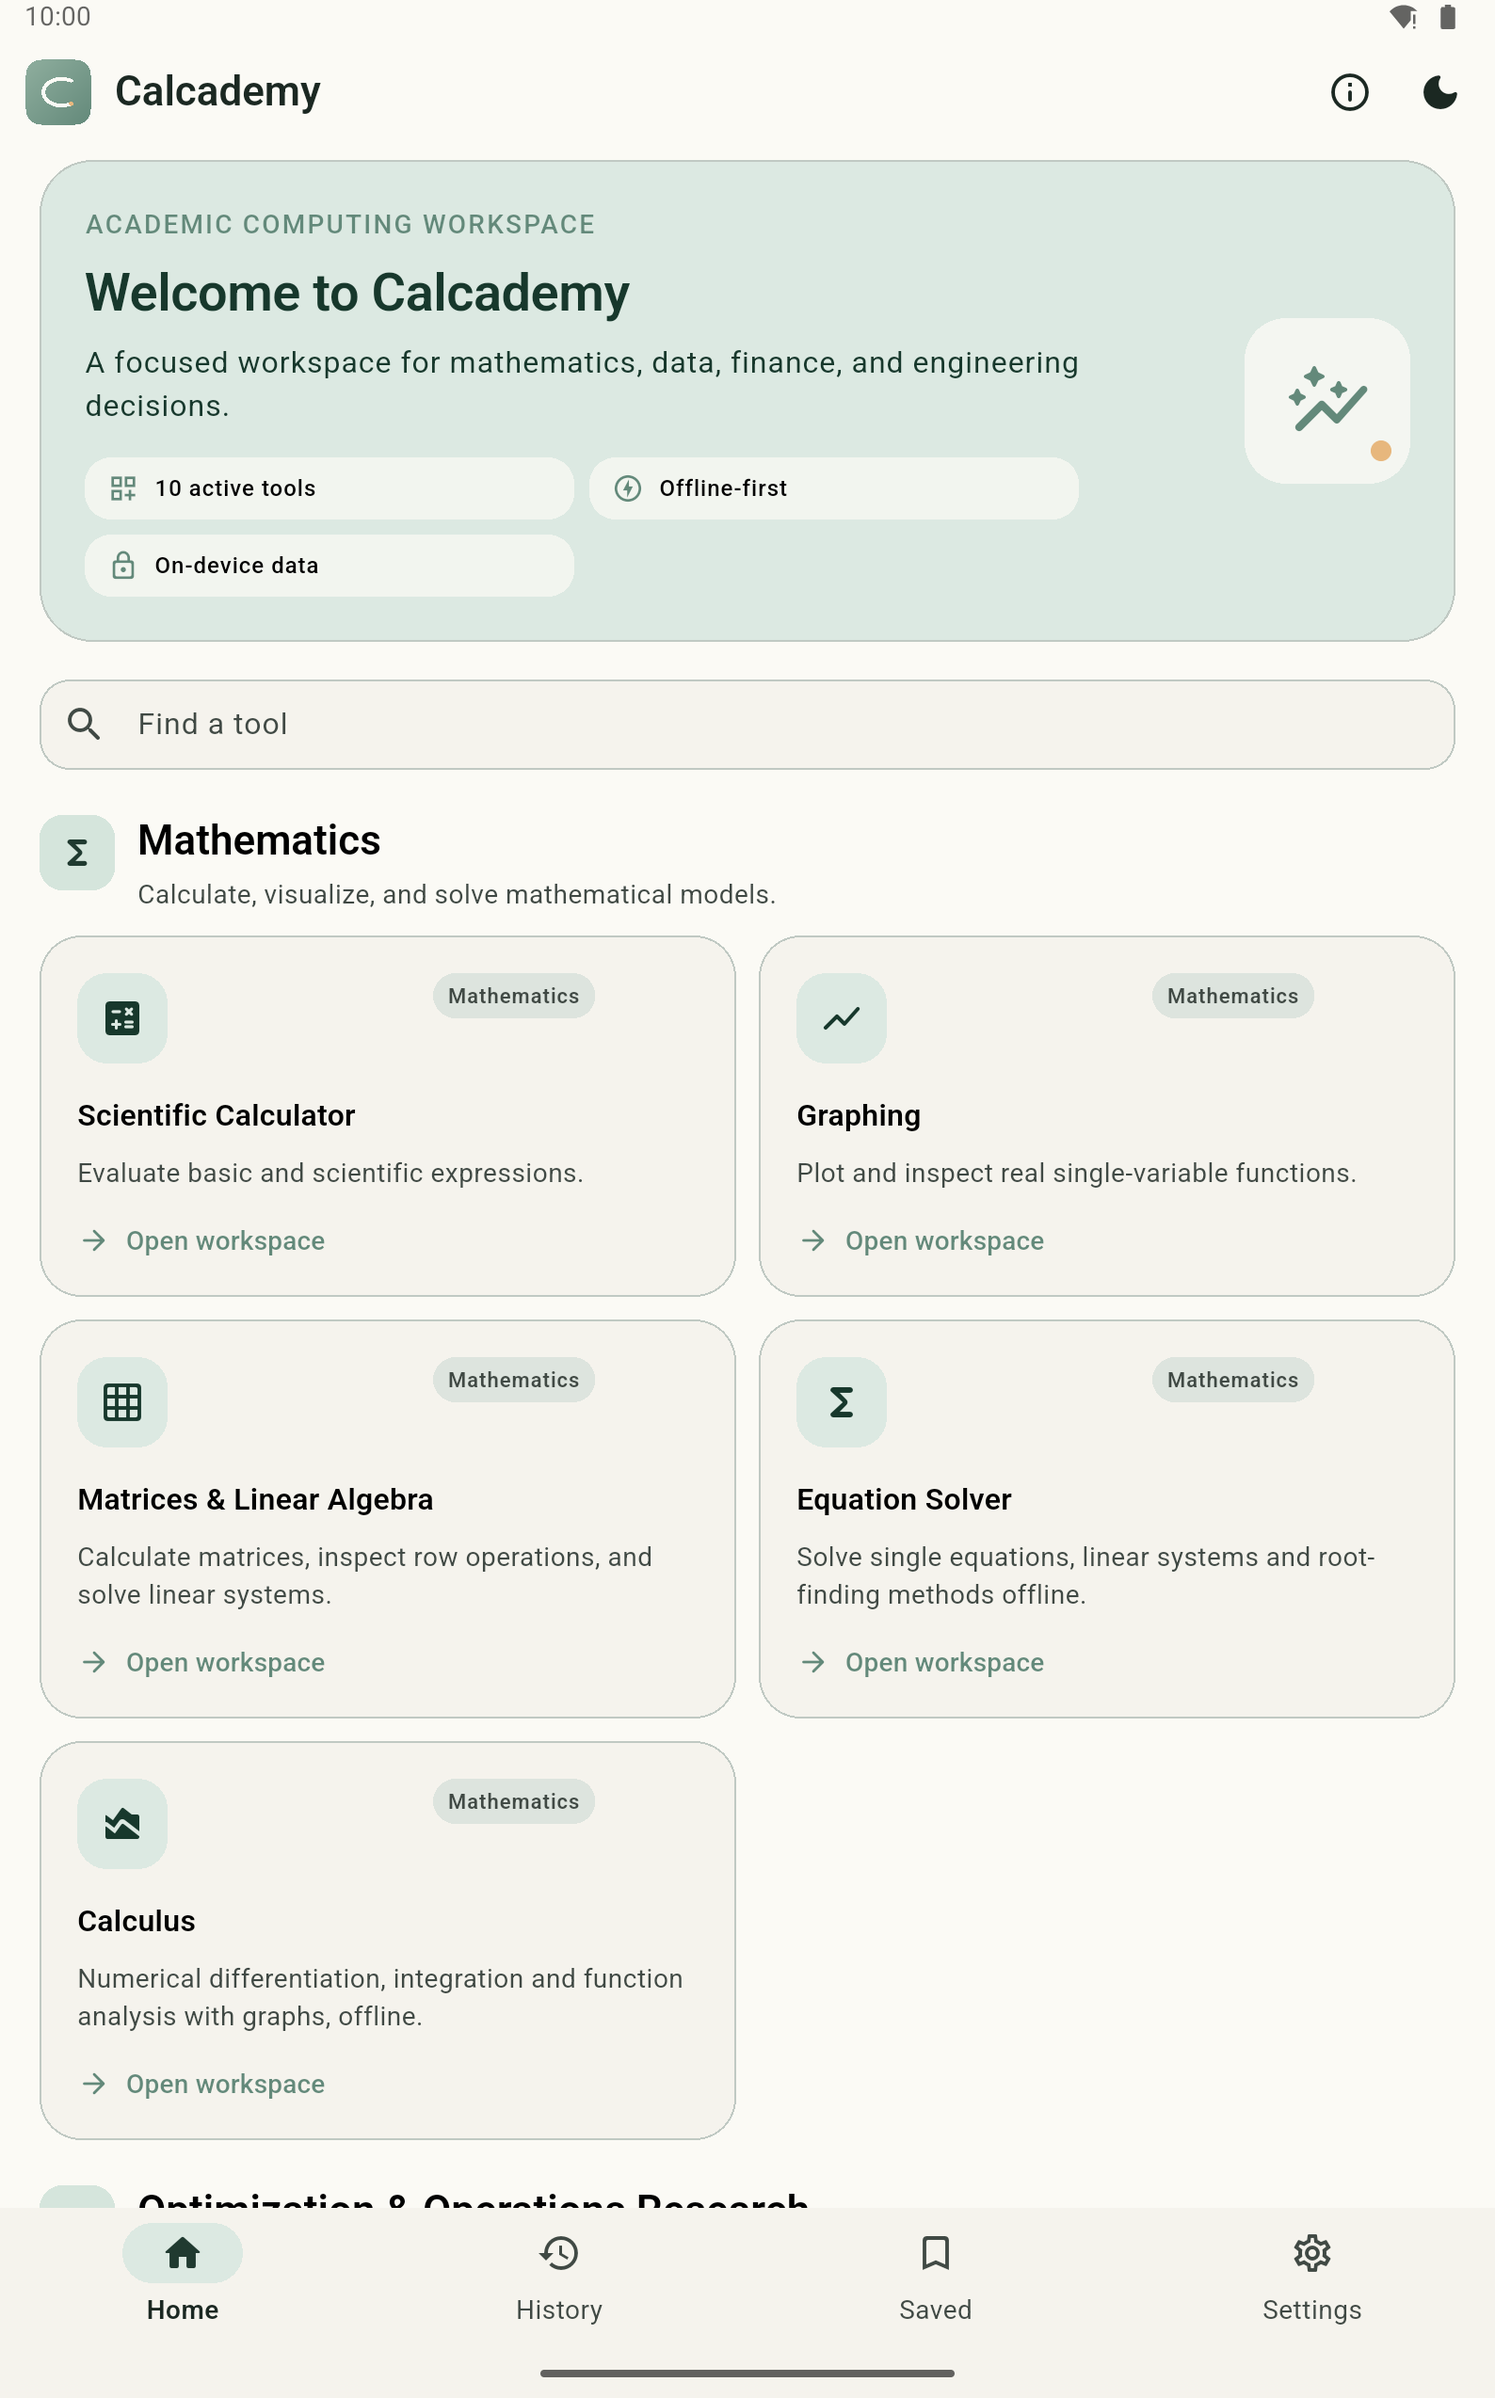
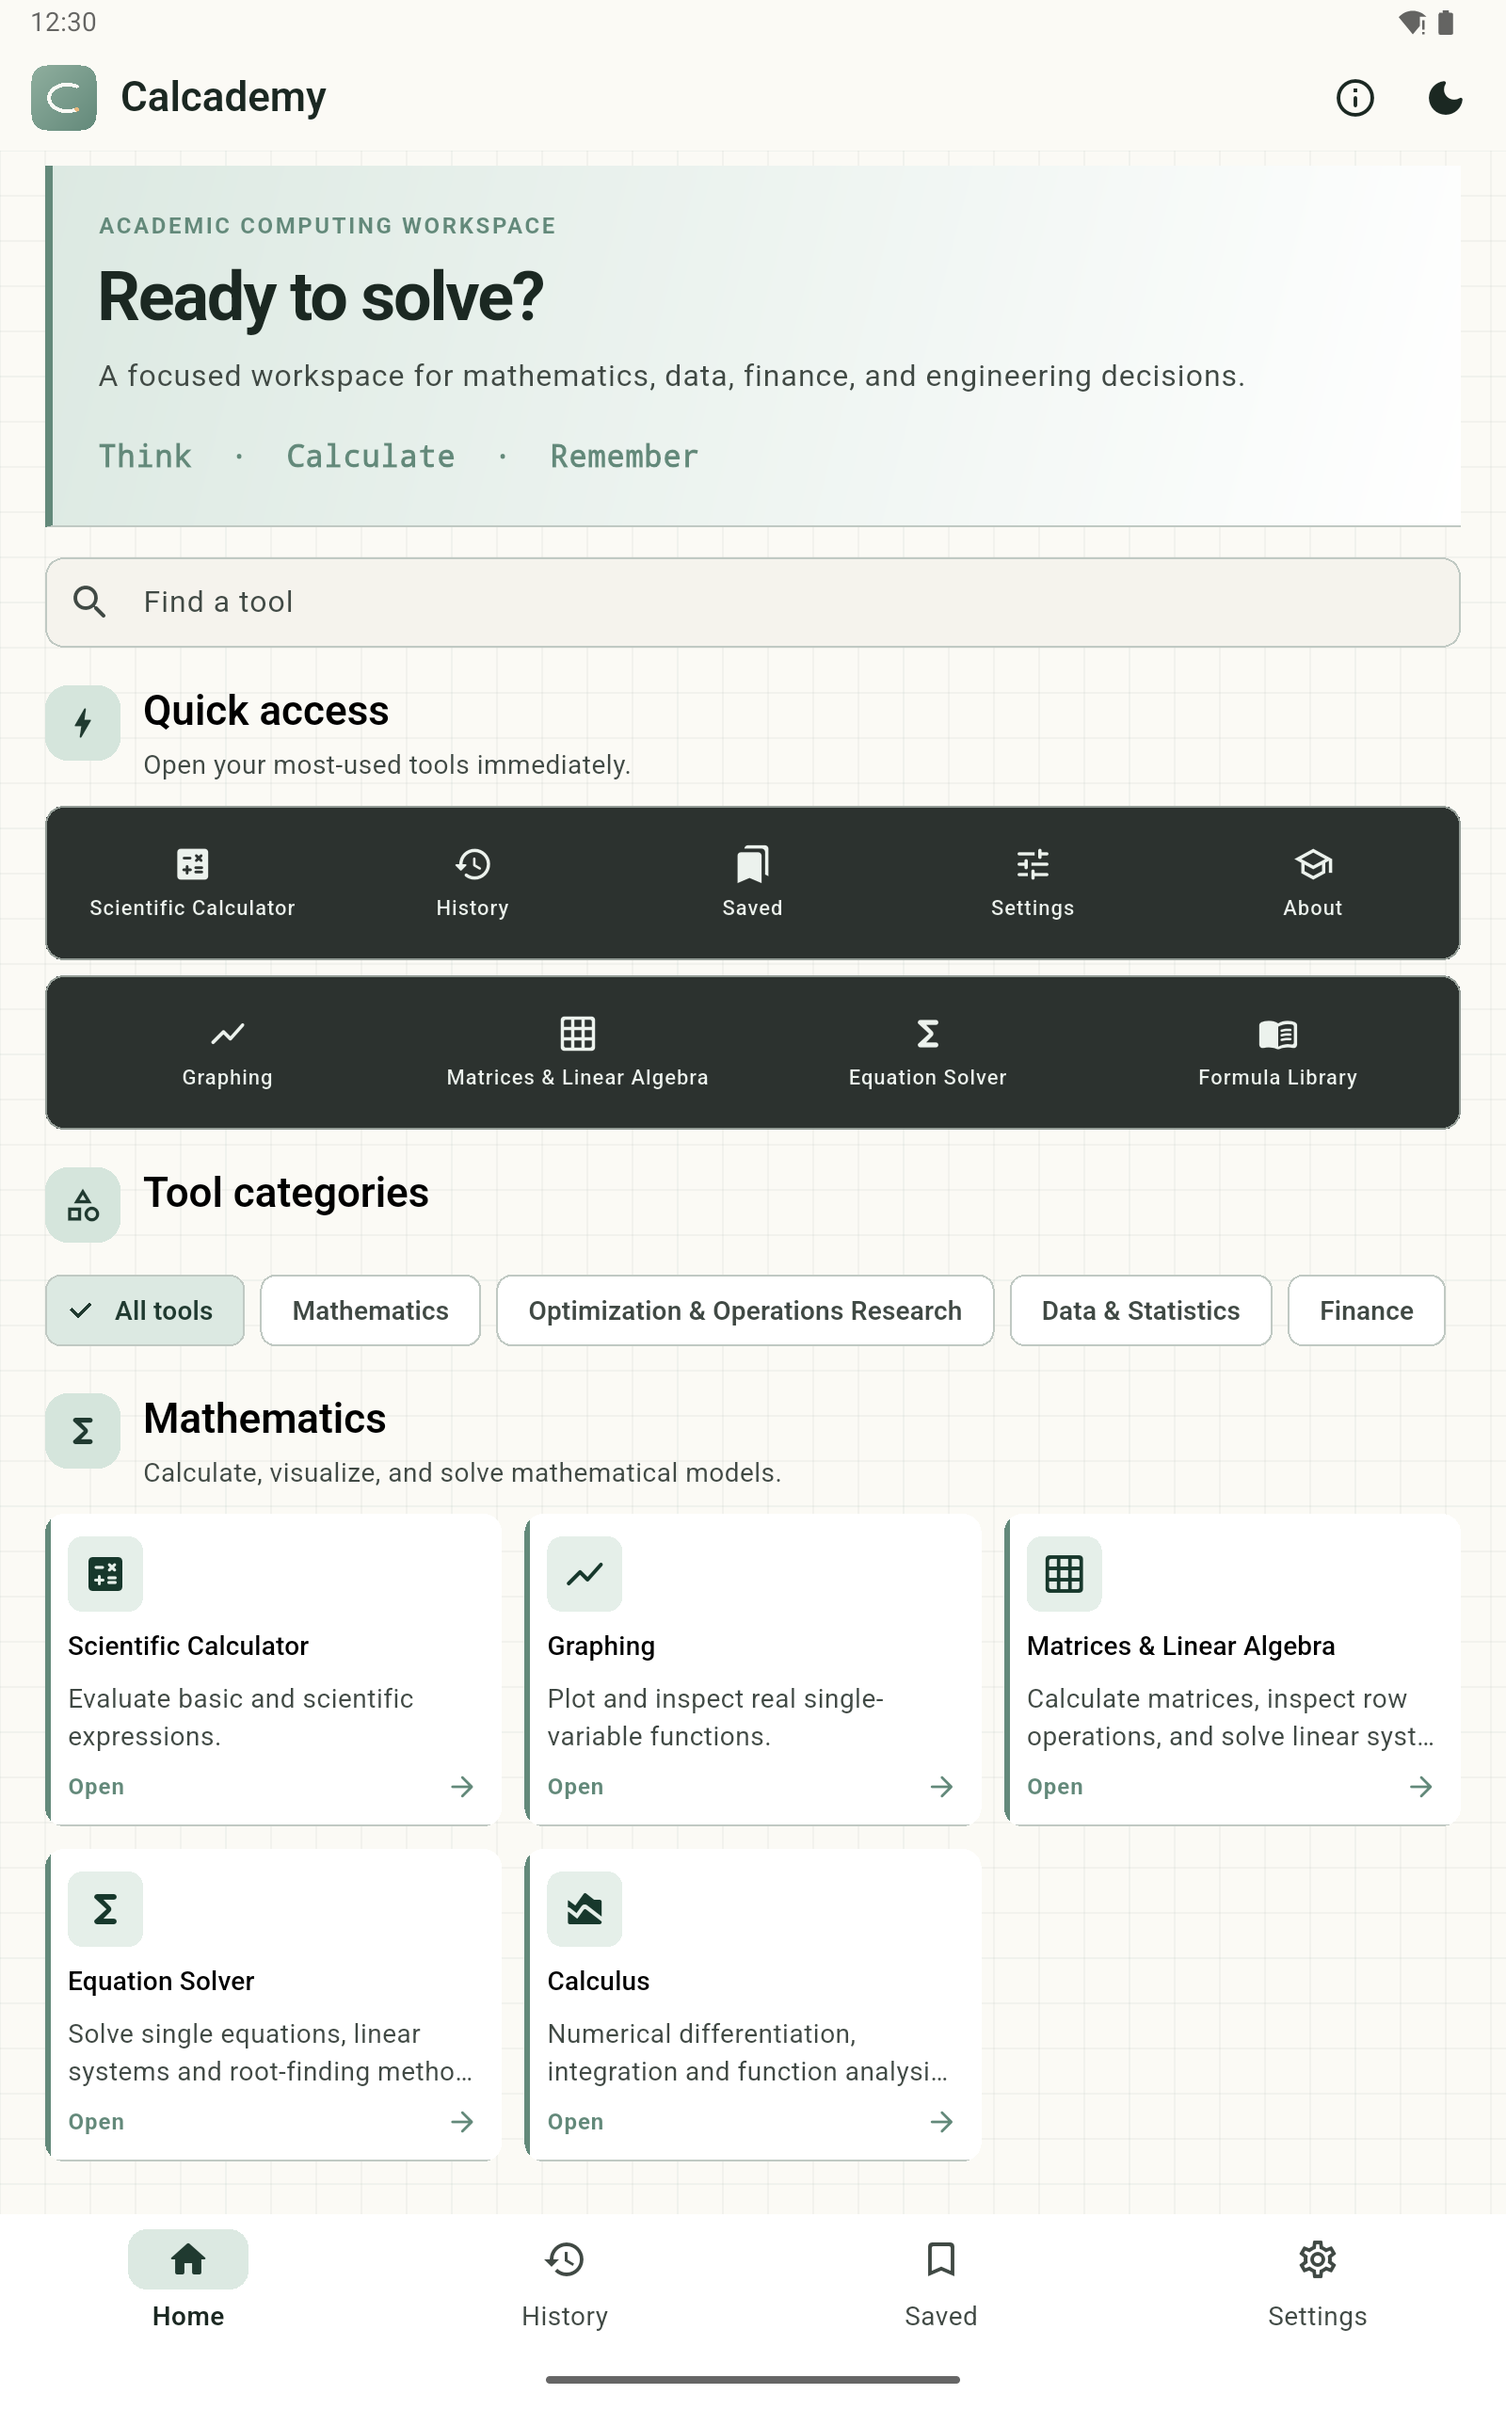
Recapture the Play listing screenshots and add framed listing designs
The committed store screenshots predated the current UI (new home hero, quick
access rows, module layouts), so the listing no longer matched the app.

Recapture the English sets from a signed 1.9.4+29 release APK on emulators:
8 phone shots (1080x2400), 4 on the 7-inch profile (1200x1920) and 4 on the
10-inch profile (1600x2560, rotated to portrait). Every displayed result is
re-verified against docs/screenshots_sample_data.md, and captures run with the
network disabled so the AdMob banner never loads and no impression is served
from an emulator.

Add store_assets/tools/build_listing_designs.ps1, which frames each screenshot
on a branded canvas (grid wash, module eyebrow, caption, self-drawn bezel) and
writes store_assets/play_listing/designs/. The screenshot is pasted at native
size, so the framed variant is pixel-identical to the raw capture inside the
bezel; upload either set, not both.

diff --git a/docs/release_screenshot_checklist.md b/docs/release_screenshot_checklist.md
@@ -44,4 +44,29 @@ Use this as an operator runbook, together with [Screenshot Sample Data](screensh
 - [ ] Screenshot language matches the listing and caption.
 - [ ] Captions contain no superlative, guaranteed-accuracy, or financial-advice claim.
 
-Final screenshots are not generated until a controlled capture device/profile and release candidate are available.
+## Capture record — 2026-08-17
+
+The live sets in `store_assets/play_listing/` were captured against this build:
+
+| Item | Value |
+| --- | --- |
+| Build | `flutter build apk --release` (signed, R8) from `1.9.4+29`, tree at commit `c257e19` |
+| Phone profile | `Medium_Phone` AVD, 1080×2400 @420dpi, Android 15 (API 35) |
+| 7-inch profile | `Tunathic_Tablet7` AVD, 1200×1920 @320dpi, portrait |
+| 10-inch profile | `Tunathic_Tablet10` AVD, 1600×2560 @320dpi, rotated to portrait |
+| Locale / theme | English, light theme, font scale 1.0 |
+| Status bar | SystemUI demo mode: 12:30, battery 100%, Wi-Fi full, notifications hidden |
+| Network | Wi-Fi and mobile data disabled, so the AdMob banner never loads and no impression is served from an emulator |
+| Operator | Ali |
+
+Set contents (all values re-verified against [screenshots_sample_data.md](screenshots_sample_data.md)):
+
+- **Phone (8):** home · equation solver `x^2-5x+6=0` → 2, 3 · graphing `sin(x)`/`cos(x)` with manual Y −1.5…1.5 · calculus function analysis `x^3-3x` on [−3, 3] · statistics `1,2,3,4,5,8,13` · financial NPV → 41.32231405 · OR assignment 3×3 → total 9 · saved calculations
+- **7-inch and 10-inch (4 each):** home · matrix `A×B` → `[[4,4],[10,8]]` · graphing · OR assignment
+
+Framed listing designs live in `store_assets/play_listing/designs/` and are regenerated with
+`store_assets/tools/build_listing_designs.ps1`. That script pastes each screenshot at its native
+size — no scaling, cropping or recolouring — so the uploaded design always shows exactly what the
+app rendered. Upload either the raw set or the framed set, not both.
+
+Recapture whenever the UI changes materially, then update this record.

diff --git a/docs/store_asset_checklist.md b/docs/store_asset_checklist.md
@@ -99,4 +99,7 @@ Use one coherent primary theme across the main sequence; theme notes above are c
 - [ ] Feature graphic, icon, and screenshots use a consistent owned brand palette.
 - [ ] Alt text describes meaningful visual content in plain language.
 
-Actual production artwork and screenshots remain outside this sprint; this document is their acceptance checklist.
+The English phone (8), 7-inch (4) and 10-inch (4) sets now exist under `store_assets/play_listing/`,
+with framed variants under `store_assets/play_listing/designs/`; see the capture record in
+[release_screenshot_checklist.md](release_screenshot_checklist.md). The Turkish localized sets and the
+feature-graphic/icon refresh are still outstanding, and this document stays their acceptance checklist.
